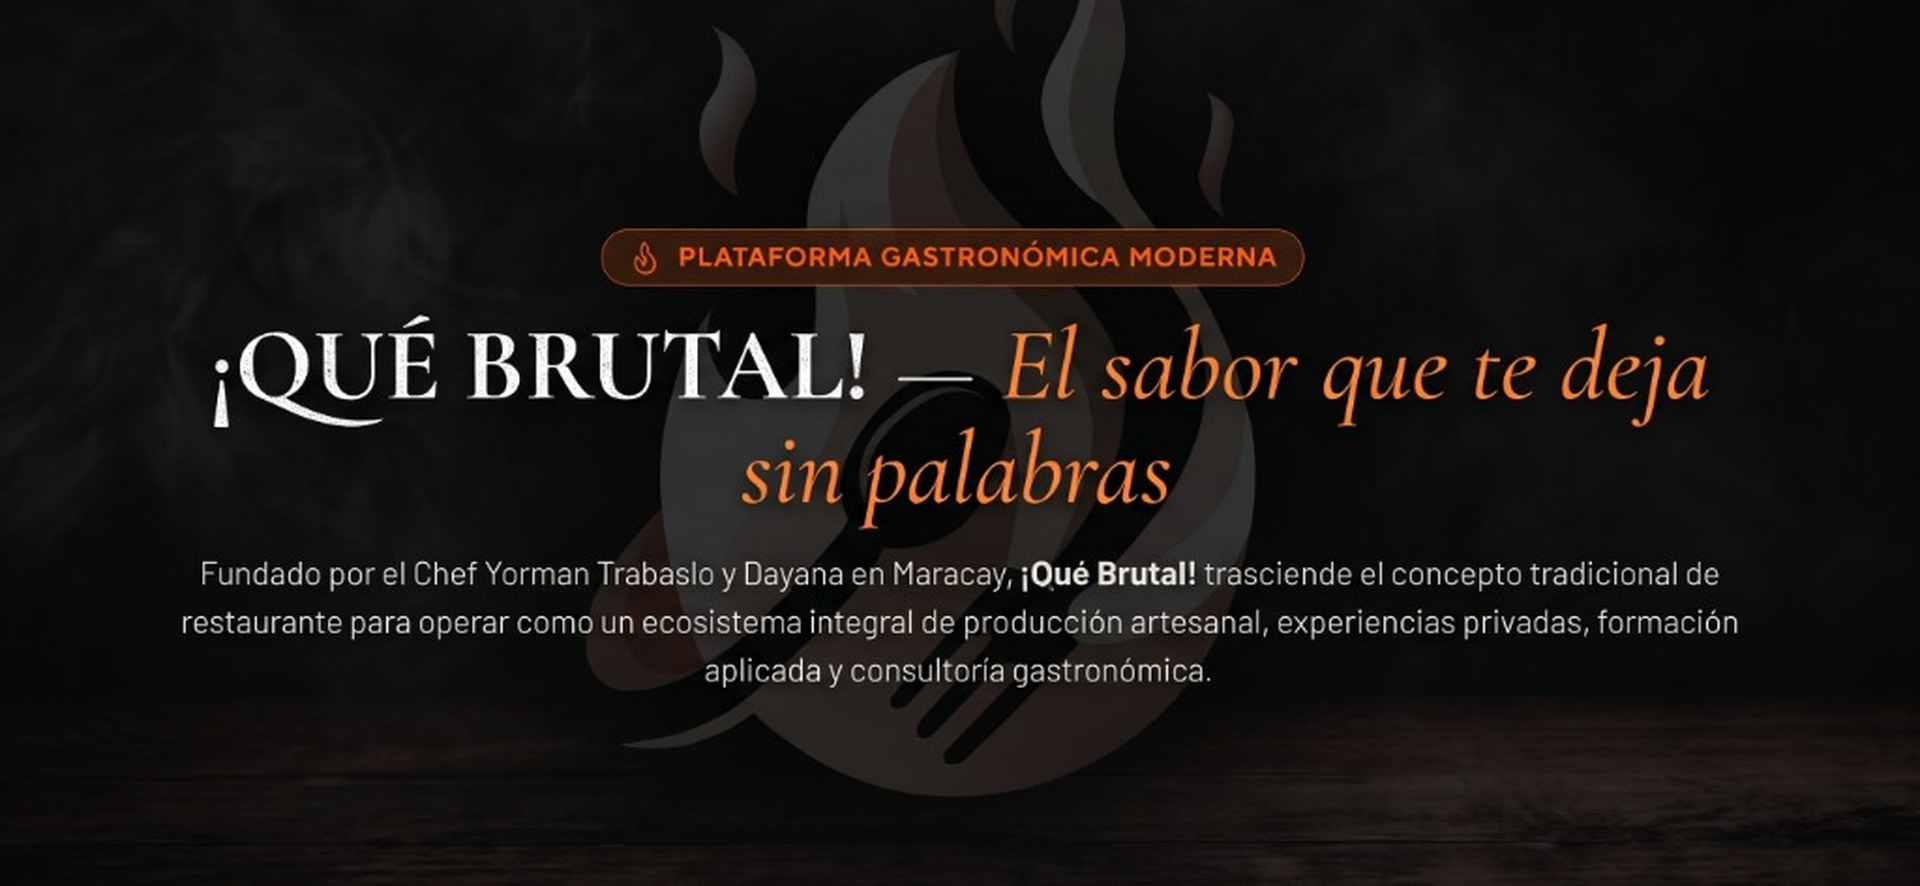
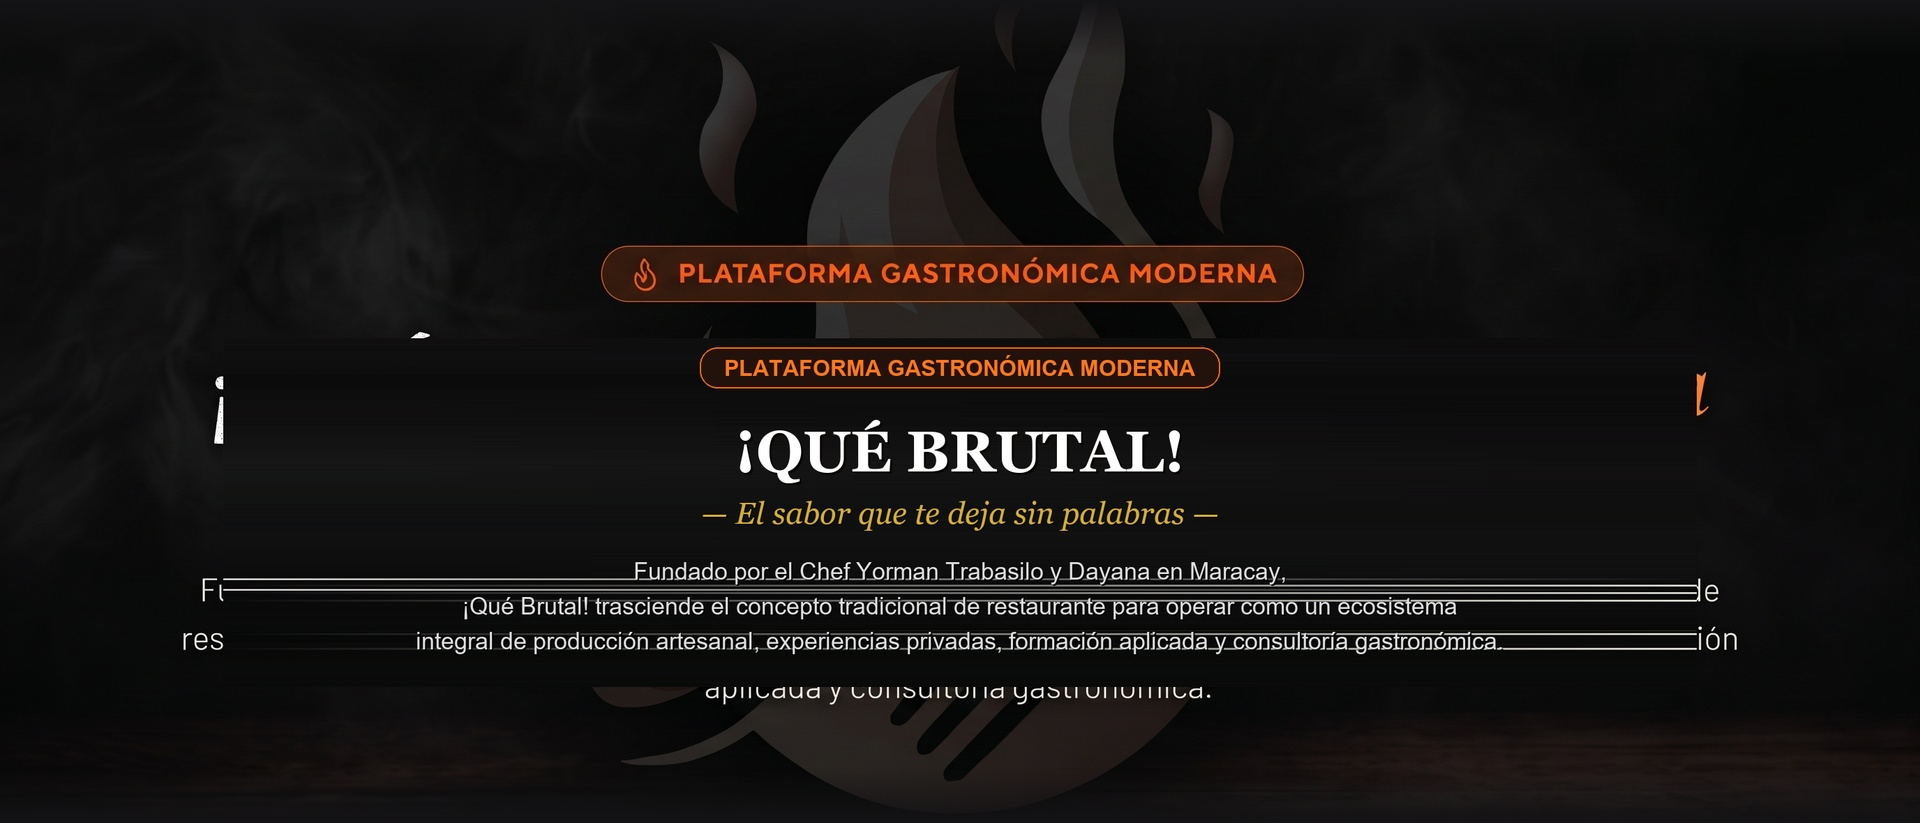
feat(brand): integrar cabecera de Que Brutal a ancho completo fusionada sin animacion y con correccion ortografica Trabasilo

diff --git a/index.html b/index.html
@@ -290,17 +290,24 @@
     </section>
 
     <!-- BLOQUE INSIGNIA: ECOSISTEMA ¡QUÉ BRUTAL! -->
-    <section id="ecosistema-quebrutal" class="py-20 bg-gradient-to-b from-brand-card via-neutral-950 to-brand-charcoal border-b border-neutral-800">
-      <div class="max-w-7xl mx-auto px-4 sm:px-6 lg:px-8">
-        
-        <!-- Portada / Cabecera Cinemática Oficial ¡Qué Brutal! (Diseño Insignia Modelo Gemini) -->
-        <div class="mb-14 relative w-full rounded-2xl overflow-hidden border border-brand-fire/40 shadow-2xl bg-neutral-950 group img-card-glow img-zoom-container">
-          <img src="assets/images/quebrutal_banner_1920.jpg?v=20261028_quebrutal" 
-               alt="¡QUÉ BRUTAL! — El sabor que te deja sin palabras · Plataforma Gastronómica Moderna" 
-               class="w-full h-auto max-h-[75vh] object-cover object-center img-zoom-target transition-transform duration-700">
-          <div class="absolute inset-0 pointer-events-none bg-gradient-to-t from-neutral-950/40 via-transparent to-transparent"></div>
-        </div>
+    <section id="ecosistema-quebrutal" class="relative w-full bg-[#141315] border-b border-neutral-800 overflow-hidden">
+      
+      <!-- Portada Cinemática Oficial ¡Qué Brutal! (Full Bleed de Punta a Punta, Sin Movimiento, Fusionada) -->
+      <div class="relative w-full overflow-hidden bg-[#141315] select-none">
+        <picture>
+          <source media="(max-width: 768px)" srcset="assets/images/quebrutal_banner_1024.jpg?v=20261028_fused">
+          <img src="assets/images/quebrutal_banner_1920.jpg?v=20261028_fused" 
+               alt="¡QUÉ BRUTAL! — El sabor que te deja sin palabras · Plataforma Gastronómica Moderna · Fundado por el Chef Yorman Trabasilo y Dayana en Maracay" 
+               class="w-full h-auto object-cover object-center block pointer-events-none">
+        </picture>
+        <!-- Velos de fusión perimetral suave (Fusión superior con Perfil Internacional e inferior con Ramas) -->
+        <div class="absolute inset-x-0 top-0 h-10 sm:h-20 bg-gradient-to-b from-[#141315] to-transparent pointer-events-none"></div>
+        <div class="absolute inset-x-0 bottom-0 h-12 sm:h-24 bg-gradient-to-t from-[#141315] to-transparent pointer-events-none"></div>
+      </div>
 
+      <!-- Las 5 Ramas de la Matriz ¡Qué Brutal! & Alianzas Estratégicas -->
+      <div class="max-w-7xl mx-auto px-4 sm:px-6 lg:px-8 pt-10 pb-20">
+        
         <!-- Las 5 Ramas de la Matriz ¡Qué Brutal! -->
         <div class="grid grid-cols-1 md:grid-cols-2 lg:grid-cols-3 gap-6">
           
